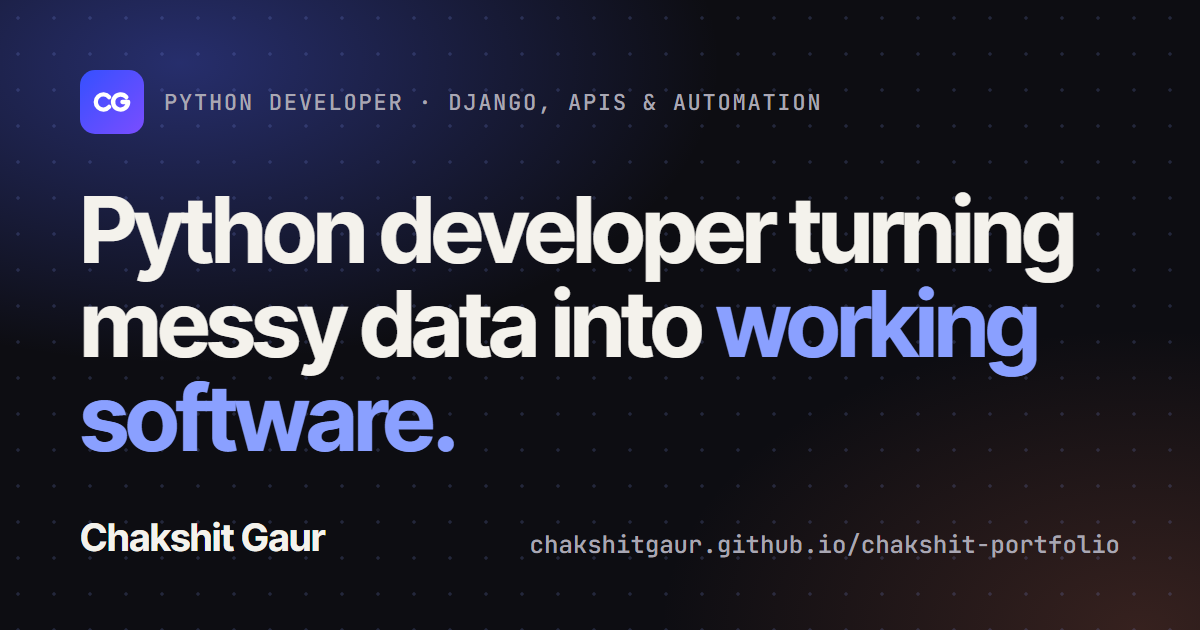
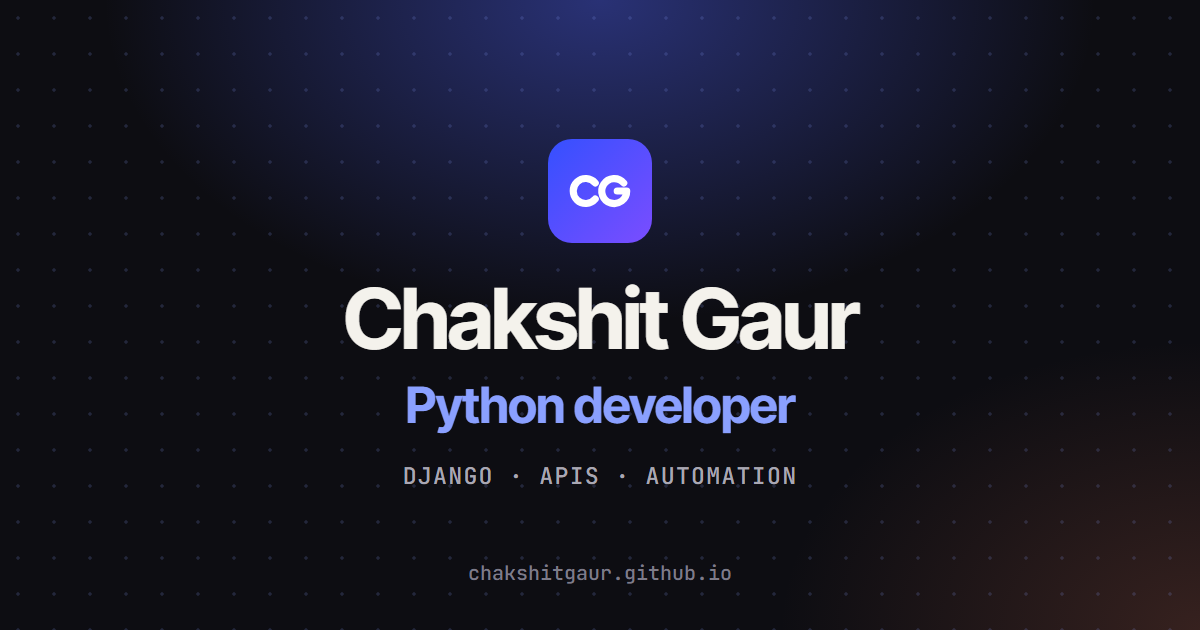
Add Contact to the nav; redo the link-preview image to survive a square crop
- index.html: Contact link in the top menu (scroll highlight picks it up
  automatically).
- og-image.png: WhatsApp crops the card to a square thumbnail and cut the
  headline in half. All content now sits in the centre 630px square.
  Image URL bumped to ?v=2 and alt text updated.

diff --git a/index.html b/index.html
@@ -12,14 +12,14 @@
   <meta property="og:title" content="Chakshit Gaur | Python Developer | Django, APIs &amp; Automation">
   <meta property="og:description" content="Portfolio of Chakshit Gaur, a Python developer in New Delhi building Django back ends, REST APIs, automation and web scraping tools.">
   <meta property="og:url" content="https://chakshitgaur.github.io/chakshit-portfolio/">
-  <meta property="og:image" content="https://chakshitgaur.github.io/chakshit-portfolio/og-image.png?v=1">
+  <meta property="og:image" content="https://chakshitgaur.github.io/chakshit-portfolio/og-image.png?v=2">
   <meta property="og:image:width" content="1200">
   <meta property="og:image:height" content="630">
-  <meta property="og:image:alt" content="Chakshit Gaur: Python developer turning messy data into working software.">
+  <meta property="og:image:alt" content="Chakshit Gaur, Python developer: Django, APIs and automation.">
   <meta name="twitter:card" content="summary_large_image">
   <meta name="twitter:title" content="Chakshit Gaur | Python Developer | Django, APIs &amp; Automation">
   <meta name="twitter:description" content="Portfolio of Chakshit Gaur, a Python developer in New Delhi building Django back ends, REST APIs, automation and web scraping tools.">
-  <meta name="twitter:image" content="https://chakshitgaur.github.io/chakshit-portfolio/og-image.png?v=1">
+  <meta name="twitter:image" content="https://chakshitgaur.github.io/chakshit-portfolio/og-image.png?v=2">
   <script type="application/ld+json">
   {
     "@context": "https://schema.org",
@@ -64,6 +64,7 @@
       <a href="#experience">Experience</a>
       <a href="#projects">Projects</a>
       <a href="#skills">Skills</a>
+      <a href="#contact">Contact</a>
       <a class="nav-cta" id="navResume" href="#" target="_blank" rel="noopener noreferrer">Resume</a>
     </nav>
     <div class="nav-tools">
